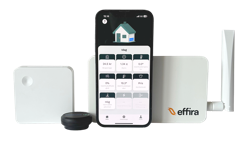
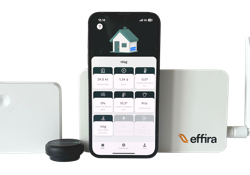
Add beta release as well

diff --git a/scripts/set-homey-mode.js b/scripts/set-homey-mode.js
@@ -7,13 +7,47 @@ const mode = process.argv[2];
 
 const MODES = {
   'cloud-dev': {
+    appId: 'com.kennyeliasson.effira.beta',
+    appName: {
+      en: 'Effira Community Beta',
+      sv: 'Effira Community Beta',
+    },
     appPlatforms: ['local', 'cloud'],
     driverPlatforms: ['local', 'cloud'],
     flowPlatforms: ['local', 'cloud'],
     driverConnectivity: ['cloud'],
     apiBaseUrl: 'https://unstable-developers.enerflex.cloud/api/v1',
   },
+  'beta-release': {
+    appId: 'com.kennyeliasson.effira.beta',
+    appName: {
+      en: 'Effira Community Beta',
+      sv: 'Effira Community Beta',
+    },
+    appPlatforms: ['local'],
+    driverPlatforms: ['local'],
+    flowPlatforms: ['local'],
+    driverConnectivity: ['cloud'],
+    apiBaseUrl: 'https://unstable-developers.enerflex.cloud/api/v1',
+  },
+  'prod-release': {
+    appId: 'com.kennyeliasson.effira',
+    appName: {
+      en: 'Effira Community',
+      sv: 'Effira Community',
+    },
+    appPlatforms: ['local', 'cloud'],
+    driverPlatforms: ['local', 'cloud'],
+    flowPlatforms: ['local', 'cloud'],
+    driverConnectivity: ['cloud'],
+    apiBaseUrl: 'https://developers.enerflex.cloud/api/v1',
+  },
   'local-release': {
+    appId: 'com.kennyeliasson.effira',
+    appName: {
+      en: 'Effira Community',
+      sv: 'Effira Community',
+    },
     appPlatforms: ['local'],
     driverPlatforms: ['local'],
     flowPlatforms: ['local'],
@@ -84,6 +118,8 @@ function setPlatformsOnComposeFlows() {
 function setPlatformsOnComposeApp() {
   const relativePath = path.join('.homeycompose', 'app.json');
   const appManifest = readJson(relativePath);
+  appManifest.id = config.appId;
+  appManifest.name = config.appName;
   appManifest.platforms = config.appPlatforms;
   writeJson(relativePath, appManifest);
 }
@@ -100,6 +136,8 @@ function setPlatformsOnBuiltApp() {
   const relativePath = path.join('app.json');
   const appManifest = readJson(relativePath);
 
+  appManifest.id = config.appId;
+  appManifest.name = config.appName;
   appManifest.platforms = config.appPlatforms;
 
   if (appManifest.flow) {